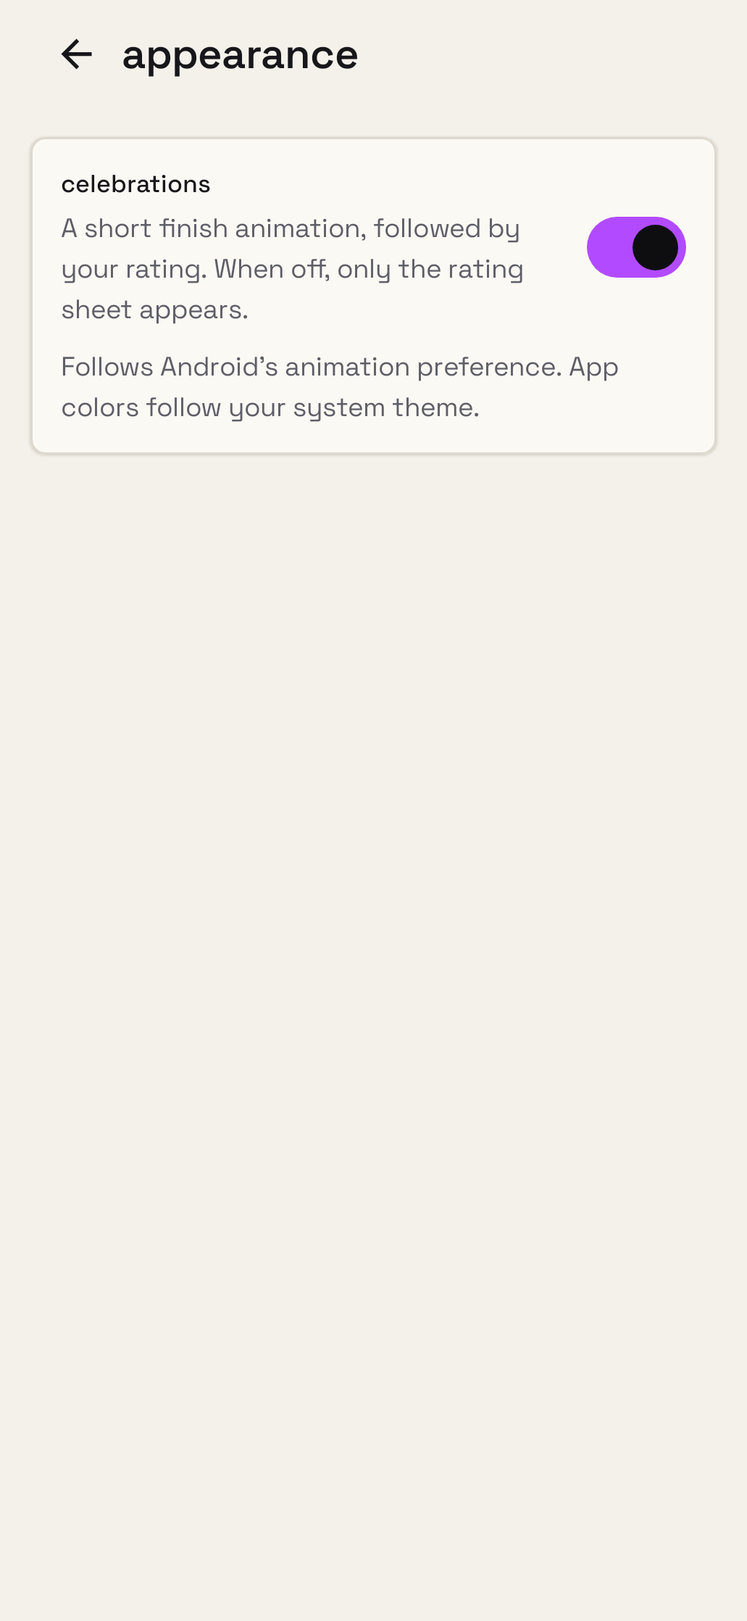
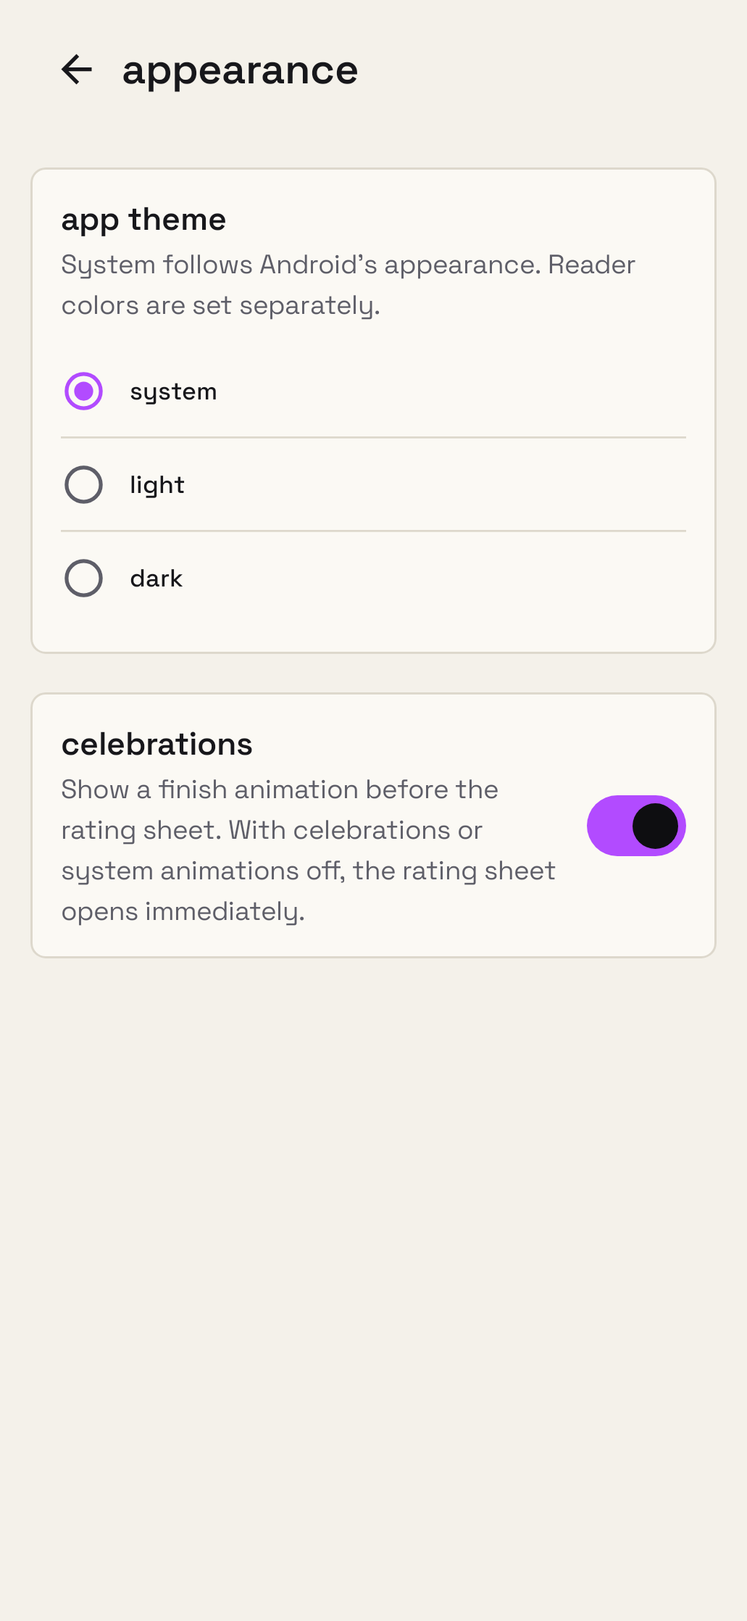
docs: hand over verified M3 0.3.1 release

diff --git a/plans/design/preview.html b/plans/design/preview.html
@@ -214,7 +214,7 @@ svg.i{fill:none;stroke:currentColor;stroke-width:1.75;stroke-linecap:square;stro
 .bright{display:flex;align-items:center;gap:10px}
 .bright .slider{flex:1}
 
-/* celebration v2: full screen, auto terminates */
+/* celebration v2: full screen, holds until tap or close */
 .cel{position:absolute;inset:0;z-index:5;pointer-events:none;overflow:hidden}
 .cel.run{pointer-events:auto}
 .cel canvas{position:absolute;inset:0;width:100%;height:100%}
@@ -247,6 +247,7 @@ svg.i{fill:none;stroke:currentColor;stroke-width:1.75;stroke-linecap:square;stro
   <span class="eyebrow">deft · visual design · living preview · v2 · 2026-11-14</span>
   <h1>read like you mean it.</h1>
   <p class="lede">The reference for Deft's look. Written spec: <span class="mono">plans/2026-11-13-deft-visual-design.md</span>; where they disagree, the spec wins.</p>
+  <p class="lede">Latest device-driven layouts: <a href="m3-feedback.html">M3 0.3.1 tracking, book history, appearance and reader status</a>. The Compose renders there supersede the early sketches below, including the held finish celebration.</p>
   <div class="changes"><span>v3: final mark (off-white book, purple ribbon, thinner strokes). v2 changes: mark (b) reworked · lighter purple accent · app type is sans only · reader gets lato, open sans, pt serif, bitter and the book's own font · calmer books screen + filter sheet + list/selection · reader settings behind one button · new full-screen finish that ends by itself · smaller type</span></div>
 </header>
 
@@ -482,7 +483,7 @@ svg.i{fill:none;stroke:currentColor;stroke-width:1.75;stroke-linecap:square;stro
       </div>
     </div></div>
 
-    <div class="ph"><span class="eyebrow">finish · full screen, ends by itself (~2.8 s)</span>
+    <div class="ph"><span class="eyebrow">finish · full screen, tap or close to continue</span>
     <div class="phone app ink" id="celphone">
       <div class="sb"><span>9:41</span><span>82%</span></div>
       <div class="scr">
@@ -492,6 +493,7 @@ svg.i{fill:none;stroke:currentColor;stroke-width:1.75;stroke-linecap:square;stro
         <div class="pad muted" style="font-size:12.5px">Press “finish” below. Tap during the animation to skip.</div>
         <div class="cel" id="cel">
           <canvas id="burst"></canvas>
+          <button id="cclose" aria-label="close celebration" style="position:absolute;right:12px;top:12px;z-index:6;width:48px;height:48px;border:0;background:none;color:#0E0E11;font-size:30px;opacity:0">×</button>
           <div class="stage">
             <div class="ccov"><div class="art" style="background:#4A2F1F"><span class="t">Middlemarch</span><span class="a">GEORGE ELIOT</span></div></div>
             <div class="word">finished.</div>
@@ -651,7 +653,7 @@ svg.i{fill:none;stroke:currentColor;stroke-width:1.75;stroke-linecap:square;stro
   $('rsetbtn').onclick=e=>{e.stopPropagation();reader.classList.add('set');reader.classList.add('hide');};
   page.onclick=()=>{ if(reader.classList.contains('set')){reader.classList.remove('set');return;} reader.classList.toggle('hide'); };
 
-  // ---- celebration v2: full-screen fields + streaks, auto ends
+  // ---- celebration v2: full-screen fields + streaks, holds until dismissed
   const cel=$('cel'), cv=$('burst'), ctx=cv.getContext('2d'), fsheet=$('fsheet');
   const cov=cel.querySelector('.ccov'), word=cel.querySelector('.word'), nums=cel.querySelector('.nums'), pb=cel.querySelector('.pbs .pb');
   const E=t=>1-Math.pow(1-t,3), EI=t=>t*t*t, C=x=>Math.max(0,Math.min(1,x)), S=(t,a,b)=>C((t-a)/(b-a));
@@ -666,8 +668,9 @@ svg.i{fill:none;stroke:currentColor;stroke-width:1.75;stroke-linecap:square;stro
     // 1. purple flood: diagonal sweep from left (0-380ms)
     const p1=E(S(t,0,380)); // 2. green sweep over purple (300-850ms)
     const p2=E(S(t,300,850));
-    // exit (2300-2800): green slides out to the right revealing the page
-    const px=E(S(t,2300,2800));
+    // The final composition stays in place until the reader dismisses it.
+    const px=0;
+    $('cclose').style.opacity=E(S(t,2300,2800));
     const off=px*(W+sk);
     if(p1>0){ctx.fillStyle='#C373FF';ctx.beginPath();const x=p1*(W+sk);ctx.moveTo(off,0);ctx.lineTo(x+off,0);ctx.lineTo(x-sk+off,H);ctx.lineTo(off-sk,H);ctx.closePath();ctx.fill();}
     if(p2>0){ctx.fillStyle='#3DE08A';ctx.beginPath();const x=p2*(W+sk);ctx.moveTo(off,0);ctx.lineTo(x+off,0);ctx.lineTo(x-sk+off,H);ctx.lineTo(off-sk,H);ctx.closePath();ctx.fill();}
@@ -686,11 +689,11 @@ svg.i{fill:none;stroke:currentColor;stroke-width:1.75;stroke-linecap:square;stro
     $('ntime').textContent=`${Math.floor(mins/60)}h ${String(mins%60).padStart(2,'0')}m`; $('nsess').textContent=Math.round(k*58); $('ndays').textContent=Math.round(k*41);
     pb.style.transform=`translateX(${(E(S(t,1400,1800))-1)*102 + px*102}%)`;
   }
-  function frame(now){const t=now-t0; draw(t); if(t<END) raf=requestAnimationFrame(frame); else finish();}
-  function finish(){running=false;cel.classList.remove('run');draw(END);fsheet.classList.add('on');}
-  function play(){cancelAnimationFrame(raf);fsheet.classList.remove('on');if(reduce){fsheet.classList.add('on');return;}running=true;cel.classList.add('run');t0=performance.now();raf=requestAnimationFrame(frame);}
+  function frame(now){const t=now-t0; draw(t); if(t<END) raf=requestAnimationFrame(frame);}
+  function finish(){cancelAnimationFrame(raf);running=false;cel.classList.remove('run');ctx.clearRect(0,0,cv.width,cv.height);[cov,word,nums,pb,$('cclose')].forEach(x=>x.style.opacity=0);fsheet.classList.add('on');}
+  function play(){cancelAnimationFrame(raf);fsheet.classList.remove('on');if(reduce){fsheet.classList.add('on');return;}running=true;pb.style.opacity=1;cel.classList.add('run');t0=performance.now();raf=requestAnimationFrame(frame);}
   $('play').onclick=play;
-  cel.onclick=()=>{ if(running){ const t=performance.now()-t0; if(t<2300){ t0=performance.now()-2300; } } };
+  cel.onclick=()=>{if(running)finish();};
   $('fdone').onclick=()=>fsheet.classList.remove('on');
 })();
 </script>

diff --git a/plans/design/m3-feedback.html b/plans/design/m3-feedback.html
@@ -1,22 +1,28 @@
 <!doctype html>
 <html lang="en"><meta charset="utf-8"><meta name="viewport" content="width=device-width, initial-scale=1">
-<title>Deft 0.3.0 — tracking review</title>
+<title>Deft 0.3.1 — tracking review</title>
 <style>body{margin:0;background:#f7f5ef;color:#22221f;font:16px/1.5 system-ui}main{max-width:1200px;margin:auto;padding:32px 24px}h1{font-size:32px;letter-spacing:-.03em}section{margin-top:40px}.screens{display:flex;gap:24px;align-items:start;flex-wrap:wrap}figure{margin:0;max-width:360px}img{display:block;width:100%;height:auto;border:1px solid #d9d7cf;border-radius:8px}figcaption{margin:12px 0 24px;color:#55554d}a{color:inherit}</style>
-<main><h1>Deft 0.3.0</h1>
+<main><h1>Deft 0.3.1</h1>
 <p>Reading history, assessments, tracking preferences and the finished-book flow. These are local Compose renders, not phone screenshots. Timing, gestures and haptics are covered by the <a href="../m3-test-checklist.md">M3 device checklist</a>.</p>
 <p><a href="m2-feedback.html">Accepted M2 visual reference</a></p>
 <section><h2>Book history and assessment</h2><div class="screens">
 <figure><img src="m3-book-tracking-paper.png" alt="Book tracking cards in the light theme"><figcaption>Grouped state, rating, favorite, private review and read-through history.</figcaption></figure>
-<figure><img src="m3-book-tracking-ink-large.png" alt="Book tracking cards at 150 percent text in the dark theme"><figcaption>Large text with scrollable rating targets and wrapped content.</figcaption></figure>
+<figure><img src="m3-book-tracking-ink-large.png" alt="Book tracking cards at 150 percent text in the dark theme"><figcaption>Aligned half stars, direct favorite heart and integrated review at large text.</figcaption></figure>
 <figure><img src="m3-book-history-paper.png" alt="Populated reading history with a completed and current read-through"><figcaption>Separate attempts with dates, recorded sessions and focused history actions.</figcaption></figure>
-<figure><img src="m3-book-history-ink-large.png" alt="Reading history at 150 percent text in the dark theme"><figcaption>History actions wrap at large text. Browsing sessions remain accessible but are excluded from totals.</figcaption></figure>
+<figure><img src="m3-book-history-ink-large.png" alt="Reading history at 150 percent text in the dark theme"><figcaption>History management uses a dated menu. Browsing sessions remain accessible but are excluded from totals.</figcaption></figure>
 </div></section>
 <section><h2>Tracking preferences</h2><div class="screens">
 <figure><img src="m3-settings-home.png" alt="Settings categories including Tracking and Appearance"><figcaption>Tracking and Appearance join the existing settings categories.</figcaption></figure>
 <figure><img src="m3-tracking-settings-ink-large.png" alt="Tracking preferences at 150 percent text"><figcaption>Separate idle controls for reflowable and fixed-layout books, plus the optional tracking indicator. Fixed-layout readers arrive in M7.</figcaption></figure>
-<figure><img src="m3-appearance-settings-paper.png" alt="Appearance settings with celebrations enabled"><figcaption>The finish animation has a persistent switch and follows Android's animation preference.</figcaption></figure>
+<figure><img src="m3-appearance-settings-paper.png" alt="Appearance settings with celebrations enabled"><figcaption>App theme is independent of the reader; celebrations retain their own switch.</figcaption></figure>
+<figure><img src="m3-appearance-settings-ink.png" alt="Dark app appearance with contrasting off switch"><figcaption>Light, Dark or System, with a visible off-state thumb.</figcaption></figure>
+<figure><img src="m3-settings-about-ink-large.png" alt="About Deft at 150 percent text"><figcaption>Version, source, license and offline privacy.</figcaption></figure>
 </div></section>
 <section><h2>Finished-book flow</h2><div class="screens">
-<figure><img src="m3-finish-full.png" alt="Finished-book celebration with reading counters"><figcaption>One frame of the short finish animation. Tap to skip, or wait for the rating sheet.</figcaption></figure>
+<figure><img src="m3-finish-full.png" alt="Finished-book celebration with reading counters"><figcaption>One frame of the short finish animation. The final composition holds until tap or close.</figcaption></figure>
 <figure><img src="m3-finish-quiet-ink-large.png" alt="Quiet finished-book rating sheet at large text"><figcaption>Quiet mode uses the rating sheet directly; it also follows Android's disabled-animation setting.</figcaption></figure>
+</div></section>
+<section><h2>Reader status and notices</h2><div class="screens">
+<figure><img src="m3-reader-status-large.png" alt="Reader status at 150 percent text"><figcaption>Page left, tracking centered, clock/battery and charging indicator right. Side labels wrap within their columns at large text.</figcaption></figure>
+<figure><img src="m3-notices-ink.png" alt="Vertically centered notices"><figcaption>Message, icon and dismiss are vertically centered; scan details stays with its message.</figcaption></figure>
 </div></section></main></html>

diff --git a/plans/m3-test-checklist.md b/plans/m3-test-checklist.md
@@ -1,51 +1,110 @@
 # M3 — reading tracking device checklist
 
+**Current retest: 0.3.1.** Install `deft-0.3.1.apk` as an update and use the fresh checklist at the end of this file. The original 0.3.0 review and all comments are preserved below.
+
+## Original 0.3.0 review
+
 Install `deft-0.3.0.apk` as an update; do not uninstall. The persistent release key preserves M1/M2 data. Complete these on your phone before M3 merge. Local checks, audit findings and signed artifact identity are recorded in [the validation report](2026-11-20-m3-validation.md).
 
 ## Upgrade and previous reader behavior
-- [ ] Update from 0.2.5: folders, books, covers, missing/ignored state, filters, fonts/themes, bookmarks and positions remain. Previously opened M2 books have no fabricated reading history.
-- [ ] Open EPUBs in paged and continuous modes. Try page turns, slow swipes, chapter changes, search, TOC jumps, selection, bookmarks, image zoom, external-link confirmation and Back. M2 behavior remains intact.
-- [ ] Open a missing or Protected book: clear existing message; no reading time is created. Rating/favorite/review and manual state remain usable.
+- [X] Update from 0.2.5: folders, books, covers, missing/ignored state, filters, fonts/themes, bookmarks and positions remain. Previously opened M2 books have no fabricated reading history.
+- [X] Open EPUBs in paged and continuous modes. Try page turns, slow swipes, chapter changes, search, TOC jumps, selection, bookmarks, image zoom, external-link confirmation and Back. M2 behavior remains intact.
+- [X] Open a missing or Protected book: clear existing message; no reading time is created. Rating/favorite/review and manual state remain usable.
 
 ## Session accuracy
-- [ ] Open a not-read book, read/interact for less than 60 seconds, leave: no saved session or automatic Reading state.
-- [ ] Read for at least 60 seconds, leave: a session and first read-through appear, state Reading. Reopen and read again: another session under the same read-through.
-- [ ] Set reflowable idle timeout 1 minute. Read with regular page/scroll interactions for 3 minutes, stop interacting for at least 2 minutes, then leave: idle gap is excluded. Repeat with default 5-minute timeout and 6-minute idle gap; total is about 3 minutes, not 9 minutes.
-- [ ] After idle pause, turn a page and keep reading; only resumed reading is added. Repeated idle/resume does not duplicate earlier time.
-- [ ] Background the app, lock the screen, switch books and rotate during reading. Background/locked time is excluded, and rotation does not double-count. Rotation and reader overlays split visible sessions; each segment still needs 60 seconds to be retained.
-- [ ] With idle timeout Off and keep-screen-on enabled, leave untouched for 15 minutes: keep-awake is released. After the screen sleeps, time stops. Reading interaction restores keep-awake appropriately.
-- [ ] After a qualifying session has checkpointed, force-stop Deft and reopen: saved history survives without counting the app-closed interval. No duplicate session appears. With a finite idle timeout, crash recovery keeps confirmed reading only: the current page’s unconfirmed dwell and up to 30 seconds of confirmed time may be lost.
-- [ ] Change device clock while reading: duration is sensible, not inflated by the wall-clock jump.
-- [ ] Page turns/scroll steps count reading movement. TOC/search/progress jumps, typography reflow and opening settings do not create huge page counts or reset reading idle incorrectly.
-- [ ] Enable the quiet reader indicator, then disable it. Its state follows real tracking without obstructing text or gestures.
+- [X] Open a not-read book, read/interact for less than 60 seconds, leave: no saved session or automatic Reading state.
+- [\] Read for at least 60 seconds, leave: a session and first read-through appear, state Reading. Reopen and read again: another session under the same read-through.
+-- cant save any reading session: gives the error "Reading history couldnt be saved. Check available storage; Deft will retry" (i have over 30gbs free, it isnt a storage issue) also the text and the info icon arent centered in the notification box
+-- drop the minimum limit to 30 seconds to change state (make it editable in the settings)
+- [-] Set reflowable idle timeout 1 minute. Read with regular page/scroll interactions for 3 minutes, stop interacting for at least 2 minutes, then leave: idle gap is excluded. Repeat with default 5-minute timeout and 6-minute idle gap; total is about 3 minutes, not 9 minutes.
+- [-] After idle pause, turn a page and keep reading; only resumed reading is added. Repeated idle/resume does not duplicate earlier time.
+- [-] Background the app, lock the screen, switch books and rotate during reading. Background/locked time is excluded, and rotation does not double-count. Rotation and reader overlays split visible sessions; each segment still needs 60 seconds to be retained.
+- [-] With idle timeout Off and keep-screen-on enabled, leave untouched for 15 minutes: keep-awake is released. After the screen sleeps, time stops. Reading interaction restores keep-awake appropriately.
+- [-] After a qualifying session has checkpointed, force-stop Deft and reopen: saved history survives without counting the app-closed interval. No duplicate session appears. With a finite idle timeout, crash recovery keeps confirmed reading only: the current page’s unconfirmed dwell and up to 30 seconds of confirmed time may be lost.
+- [-] Change device clock while reading: duration is sensible, not inflated by the wall-clock jump.
+- [-] Page turns/scroll steps count reading movement. TOC/search/progress jumps, typography reflow and opening settings do not create huge page counts or reset reading idle incorrectly.
+-- cant test these, any reading session isnt saving
+- [X] Enable the quiet reader indicator, then disable it. Its state follows real tracking without obstructing text or gestures.
+-- move the indicator from above the status line to on the status line on the center (left aligned: page, center: reading status, right: time and battery (for the battery icon, if the phone is charging, add a small lightning text next to it))
 
 ## Reading states and read-throughs
-- [ ] Not read becomes Reading only after a qualifying saved session.
-- [ ] Mark Reading as Paused; short reopen alone preserves Paused, a qualifying session resumes the same read-through.
-- [ ] Mark Abandoned; reopening offers Resume or Start over. Resume retains the read-through; Start over creates another. Cancel/Back starts neither choice silently.
-- [ ] Finish a book manually; pick a finish date. Reopen: Re-read starts a new read-through and resets position; Just browsing retains finished state and position.
-- [ ] Read a browsing session for at least 60 seconds. It appears labelled Browsing in book history, but is excluded from reading totals/finish summary.
-- [ ] Reach the last page/99% while Reading: Mark as finished appears once. Decline, navigate away/back and reopen: it does not repeat for that read-through. A new read-through can prompt again.
-- [ ] Accept Mark as finished: completion date and state update once; the finish flow appears without duplicate sessions.
-- [ ] Manually select all five states. Finished asks for date; resetting to Not read warns before removing read-through history. Cancel keeps it.
-- [ ] Edit read-through start/end dates; invalid reversed dates are rejected. Delete one read-through with confirmation; latest remaining read-through determines state and its sessions remain intact. Cancelling deletion changes nothing.
-- [ ] Ignore and un-ignore a book; history returns intact. Remove/move source files and rescan; missing books retain history. Only confirmed Forget removes it permanently.
+- [-] Not read becomes Reading only after a qualifying saved session.
+- [-] Mark Reading as Paused; short reopen alone preserves Paused, a qualifying session resumes the same read-through.
+- [X] Mark Abandoned; reopening offers Resume or Start over. Resume retains the read-through; Start over creates another. Cancel/Back starts neither choice silently.
+- [X] Finish a book manually; pick a finish date. Reopen: Re-read starts a new read-through and resets position; Just browsing retains finished state and position.
+- [-] Read a browsing session for at least 60 seconds. It appears labelled Browsing in book history, but is excluded from reading totals/finish summary.
+- [X] Reach the last page/99% while Reading: Mark as finished appears once. Decline, navigate away/back and reopen: it does not repeat for that read-through. A new read-through can prompt again.
+- [\] Accept Mark as finished: completion date and state update once; the finish flow appears without duplicate sessions.
+- [X] Manually select all five states. Finished asks for date; resetting to Not read warns before removing read-through history. Cancel keeps it.
+- [X] Edit read-through start/end dates; invalid reversed dates are rejected. Delete one read-through with confirmation; latest remaining read-through determines state and its sessions remain intact. Cancelling deletion changes nothing.
+-- Add an Android date picker to make things easier
+- [X] Ignore and un-ignore a book; history returns intact. Remove/move source files and rescan; missing books retain history. Only confirmed Forget removes it permanently.
 
 ## Ratings, library and settings
-- [ ] Set ratings 0.5, 3.5 and 5, clear the rating, toggle favorite and save a multiline review. Reopen/restart; values persist, no file is modified.
-- [ ] Use state, favorite and rating filters with existing format/missing/search filters. Change rating sort/direction, restart app: choices remain. Book states update immediately after reading/manual changes.
-- [ ] Tracking settings accept both reflowable/fixed 1–60 minute timeouts and Off; defaults are 5/10 minutes. Restart and verify persistence; no invalid value is accepted.
-- [ ] Appearance celebrations toggle persists. Tracking controls explain the minimum-session behavior without unnecessary technical details.
+- [X] Set ratings 0.5, 3.5 and 5, clear the rating, toggle favorite and save a multiline review. Reopen/restart; values persist, no file is modified.
+-- dont use an actual toggle button for favoriting, use the heart icon itself, for a favorite, a filled out heart with a little popping animation when favoriting and unfavoriting
+-- the alignment of half star ratings is Off
+-- the general design of the new additions (the rating, the change state button, the favorite button, the padding and spacing in the your review section, the reading history section) needs a lot of work, refer to the screenshots; the design is haphazardous, and unorganized, wrong usage of empty space, unintuitive and outside of the norm, spacing and alignment issues are proliferent.
+- [X] Use state, favorite and rating filters with existing format/missing/search filters. Change rating sort/direction, restart app: choices remain. Book states update immediately after reading/manual changes.
+- [X] Tracking settings accept both reflowable/fixed 1–60 minute timeouts and Off; defaults are 5/10 minutes. Restart and verify persistence; no invalid value is accepted.
+- [X] Appearance celebrations toggle persists. Tracking controls explain the minimum-session behavior without unnecessary technical details.
+-- make it last until the user taps the screen or the eased in appearance of the close button
 
 ## How does it look? Finish flow and visual review
-- [ ] Finish with animations enabled: purple/green fields, cover, finished label and time/session/day counters play smoothly; it exits automatically around 2.8 seconds to rating/favorite sheet.
-- [ ] Tap during celebration: skip cleanly to rating/favorite. Dismiss sheet and revisit book: celebration does not replay.
-- [ ] Disable celebrations; finish another read-through: quiet finished/rating sheet only. Repeat with Android animation scale off.
-- [ ] Rotate/background during finish flow: no duplicate finish or lost state; controls remain usable.
-- [ ] Review book history/rating/review cards, Tracking/Appearance settings and library states in light/dark themes, portrait/landscape and 150% text. No clipped labels, awkward blank space or inaccessible actions.
-- [ ] Enable volume-key page turns: one subtle tick per enabled press, none on release/repeat or when disabled. State confirmation and celebration burst use subtle feedback, respecting Android haptic settings.
-- [ ] TalkBack announces state/rating/favorite/history controls; touch targets are usable. Motion, sheets, errors and state changes match the polished M2 UI.
+- [X] Finish with animations enabled: purple/green fields, cover, finished label and time/session/day counters play smoothly; it exits automatically around 2.8 seconds to rating/favorite sheet.
+- [X] Tap during celebration: skip cleanly to rating/favorite. Dismiss sheet and revisit book: celebration does not replay.
+- [X] Disable celebrations; finish another read-through: quiet finished/rating sheet only. Repeat with Android animation scale off.
+- [X] Rotate/background during finish flow: no duplicate finish or lost state; controls remain usable.
+- [X] Review book history/rating/review cards, Tracking/Appearance settings and library states in light/dark themes, portrait/landscape and 150% text. No clipped labels, awkward blank space or inaccessible actions.
+- [X] Enable volume-key page turns: one subtle tick per enabled press, none on release/repeat or when disabled. State confirmation and celebration burst use subtle feedback, respecting Android haptic settings.
+- [-] TalkBack announces state/rating/favorite/history controls; touch targets are usable. Motion, sheets, errors and state changes match the polished M2 UI.
 
 ## Feedback
 
 Write observations beneath the relevant checkbox; add screenshots/recordings to the feedback folder. M4 organization, M5 highlights/notes and M6 global stats/goals remain separate milestones.
+
+- the turned off form of any toggle button has too little contrast with the circle inside
+- add an about page in the settings
+- in the settings, add a bit more vertical padding to the titles (settings, library settings, reader, ...)
+- currently, the app theme itself cant be changed, only the reader theme, implement an app theme changer in the appearance settings
+
+
+## 0.3.1 — device retest
+
+Install `deft-0.3.1.apk` over the existing app; do not uninstall. The same release key is used. Local validation and the timestamp failure explanation are in [the 0.3.1 report](2026-11-20-m3-031-validation.md). These boxes are for device results, not local automated checks.
+
+### Session saving and accuracy
+- [ ] Upgrade: books, folders, reader settings, positions, bookmarks, manual states, dates, ratings/favorite/reviews and existing history remain.
+- [ ] Tracking → minimum session defaults to **30 seconds**. Read a not-read book for 35–45 seconds, turn a page and leave: a session is saved and state becomes Reading. No save-error notice appears.
+- [ ] Read the same book for 2 minutes with several page turns, leave, reopen and read again: two sessions under one read-through; the first session does not duplicate. Test both paged and continuous reading.
+- [ ] Leave after less than 30 seconds: no new session. Set minimum to 10 seconds, read 15 seconds and leave: session is saved and its duration is shown in seconds. Change minimum to 120; previous shorter accepted sessions remain in history/totals after restart.
+- [ ] Edit minimum to 1 and 300 seconds; both save. Blank, 0, negative, decimal and 301 are rejected. Restart retains the last valid value. Restore 30 seconds for the remaining tests.
+- [ ] With 1-minute idle pause, read with regular interactions for 3 minutes, then leave untouched for 2 minutes and exit: only active reading counts. Repeat with default 5 minutes and a 6-minute idle gap: about 3 minutes, not 9.
+- [ ] After idle pause, turn a page and read again; resumed reading is added once. Page turns/scroll count movement, while TOC/search/progress jumps and typography changes do not inflate page counts.
+- [ ] Background, lock, rotate and switch books: hidden/locked time is excluded. Each visible segment needs the selected minimum. Return and continue without duplicate time.
+- [ ] With idle pause Off, leave untouched for 15 minutes: keep-awake releases, screen-off stops time, and the next reading interaction restores keep-awake.
+- [ ] Read/interact long enough to checkpoint, force-stop and reopen: confirmed history survives without counting closed time or duplicating a session. Current-page unconfirmed dwell and up to 30 seconds of confirmed time may be lost after force-stop.
+- [ ] Change the device clock while reading: duration remains sensible. Mark Reading as Paused: a short reopen preserves Paused; a qualifying session resumes the same read-through.
+- [ ] Open a finished book as Just browsing and read for 35–45 seconds: labelled Browsing session appears, excluded from reading totals. Re-read instead creates a new read-through and resets position.
+- [ ] Reach the end and accept the finish prompt: session saves, state finishes, celebration appears once. Declining still suppresses repeats for that read-through.
+
+### Book controls and dates
+- [ ] State control opens all five states. Rating, heart and review have clear grouping, aligned spacing and no wasted rows at normal and 150% text in both app themes.
+- [ ] Set 0.5, 3.5 and 5 stars: filled areas align with outlines, the value is readable, and clear rating works. Tap the heart on/off: filled/outline state, a subtle pop each way, and persisted value after restart.
+- [ ] Write/edit/clear a multiline review; text stays readable and controls remain usable. Reading history clearly separates read-throughs with dates and real totals. Open session details and the history management menu.
+- [ ] Manual Finished opens a calendar. Cancel, reopen and choose a date; no state changes on cancel. Edit start/end dates through calendars, including year/month navigation; invalid reversed dates are rejected. Cancel/delete confirmations preserve existing history unless explicitly confirmed.
+- [ ] Ignore/un-ignore and missing files preserve history. Rating and manual state remain usable on missing/Protected books. Filters and rating/state sorts still update and persist.
+
+### Reader, appearance and completion
+- [ ] Enable reading indicator: page on left, reading/paused centered, clock/battery on right. Plug/unplug charging: the bolt follows charging. Test 150% text with no overlap. Disable status details: the separately enabled reading indicator remains centered. Disable indicator: it disappears.
+- [ ] Any notice has centered message/icon/close, including a multiline error and a scan notice with action. Notices still slide, stack and dismiss correctly.
+- [ ] Every settings switch has a clearly visible off thumb/track in Light, Dark and reader themes. Settings, Library, Reader, Tracking, Appearance and About titles have consistent vertical breathing room.
+- [ ] Appearance → System/Light/Dark changes library, book and settings immediately, including readable system-bar icons. Restart retains it. System follows Android; reader theme remains independently selected.
+- [ ] About shows installed version 0.3.1, author, GPL license, source and offline privacy information. Source opens the browser only after tapping its action. Back returns to Settings.
+- [ ] Finish with celebrations enabled: intro plays and then stays on screen beyond 5 seconds. Close eases in. Tap anywhere or close to open rating/favorite; do not auto-exit. Tap early also skips cleanly.
+- [ ] Rotate/background the held celebration, then dismiss: no replay or duplicate completion. With celebrations or Android animation scale off, finish goes directly to the quiet sheet. Heart motion respects disabled animations.
+- [ ] TalkBack announces state, half-star rating, favorite selected state, history actions, date and theme choices. At large text/landscape all actions remain reachable, without clipping.
+
+### Feedback for 0.3.1
+
+Add observations under the relevant checkbox and new screenshots/recordings to `plans/feedback/`. M3 remains on its feature branch until this review is accepted.

diff --git a/plans/2026-11-20-m3-031-validation.md b/plans/2026-11-20-m3-031-validation.md
@@ -1,0 +1,84 @@
+# M3 device feedback — 0.3.1 validation
+
+## Review coverage
+
+The complete original review in `m3-test-checklist.md` and all eight screenshots
+dated 2026-11-20 were read. The original comments and results remain intact; a
+fresh 0.3.1 device checklist follows them. M3 remains on its feature branch until
+the author accepts the device review.
+
+| Feedback | Change |
+|---|---|
+| Sessions never save, despite free storage | Compare checkpoint identity at Room's millisecond precision; preserve retries and log the actual exception locally. |
+| Editable 30-second minimum | Default 30 seconds, valid 1–300; captured per session so later preference changes preserve accepted history. Room 5→6 assigns legacy rows their original 60-second threshold. |
+| Misaligned save-error notice | Vertically center message, icon and close control, including multiline notices. |
+| Tracking indicator and battery | Center tracking in the status line; page left, time/battery right, live charging bolt. Independent indicator visibility remains available. |
+| Date picker | Native Android calendars for finish/start/end dates, with cancellation and calendar-date validation. |
+| Favorite and half stars | Direct filled/outline heart with a small pop both ways; star fill and outline share one path. |
+| Book assessment/review/history layout | Compact state selector and assessment/review grouping; dated read-through rows with session details and secondary management menu. |
+| Celebration exits too soon | Hold after the introduction until tap or eased-in close; preserve quiet mode and restoration. |
+| Off switches lack contrast | Shared switch with contrasting thumb/track and outline in app and reader palettes. |
+| Settings titles need padding | Shared settings top bar adds 8dp above and below. |
+| App theme and About | Persistent System/Light/Dark independent of reader theme, animated palette and matching system-bar icons; About shows installed version, author, GPL/source links and offline privacy. |
+
+## Session failure diagnosis
+
+`Instant.now()` can include sub-millisecond precision. Room's existing converter
+stores epoch milliseconds. The first checkpoint therefore saved successfully, but
+the next checkpoint compared the reloaded timestamp with the original Instant
+using exact equality and rejected the same session as an ID collision. Existing
+tests used whole-second Instants and missed this device behavior.
+
+A real Room regression with a nanosecond timestamp failed before the change at
+`SessionRepository`'s identity guard. Identity now compares epoch milliseconds,
+while retaining the book, browsing and captured-minimum guards. No storage quota
+change or destructive recovery is involved. Time that was never successfully
+recorded by 0.3.0 is not fabricated.
+
+## Combined audit
+
+One combined audit found two related edge cases. Both were corrected and cleared
+by a scoped follow-up:
+
+- Editing a multi-day read-through to one calendar day could reject it because
+  the hidden start/end times were inverted. Validate the selected dates first and
+  clamp the end to the start when needed on the same day.
+- A qualifying session shorter than one minute could show `0m` in the held
+  celebration. Show seconds for positive sub-minute totals.
+
+Regressions exercise the native calendar and the held 35-second celebration.
+
+## Verification and artifact
+
+`check` passed after the fixes and audit: 867 tests across 187 suites, with no
+failures, errors or skips. This includes Room migrations, repeated nanosecond
+session checkpoints, captured minimums, appearance persistence, calendar
+selection/cancellation, favorite accessibility, held celebration and reader
+status layout. ktlint, detekt and network isolation passed in the same run.
+
+Updated light/dark and 150% text renders were inspected for book controls,
+history, settings, About, celebration, reader status and notices. The refreshed
+reference is `plans/design/m3-feedback.html`, linked from the main visual preview.
+The preview JavaScript passed `node --check`; release-tool Python tests passed.
+
+No physical-device test is claimed: the author instructed us to assume USB access
+is unavailable. The unchecked 0.3.1 section in `m3-test-checklist.md` covers device
+retests, including the tracking checks previously blocked by session persistence.
+
+`check assembleRelease` passed on the committed source in 3m 47s. The release
+uses R8 minification and resource shrinking. `scripts/verify-release.py` verified
+application ID/version, the persistent signing certificate, absence of INTERNET
+permission, and the R8 mapping. The certificate also matches the archived 0.3.0
+APK, so this release can update that installation without removing app data.
+
+- APK: `D:/Code/deft/deft-0.3.1.apk`
+- Version: `0.3.1-1`, Android versionCode `30101`
+- Embedded source: `42eebc4864e6a429b69971d9f64e75e8e4900505`
+- Size: `6197253` bytes
[2 lines of base64/hex data omitted]
+- Local archive: `.superpowers/releases/0.3.1/` contains the APK, R8 mapping and
+  evidence JSON for crash retracing.
+
+The feature branch is ready for device review; M3 has not been merged or tagged.
+GitHub CI is not part of the handover wait.

diff --git a/plans/2026-11-13-deft-roadmap.md b/plans/2026-11-13-deft-roadmap.md
@@ -6,7 +6,7 @@
 
 **Rule for every milestone:** it ends with an installable app that is better than the previous milestone's, all tests green, CI green, and the design doc updated if a decision changed (add a row to the design doc's Decision log, §20).
 
-**Merged: M2, `v0.2.5-1`. Current handover: M3, `0.3.0-1`, awaiting device acceptance.**
+**Merged: M2, `v0.2.5-1`. Current handover: M3, `0.3.1-1`, awaiting device acceptance.**
 
 **Author-directed handover:** M1 was merged as `v0.1.2-1`. The author passed every 0.2.4 device-retest item and accepted M2, explicitly authorizing final minor polish as `0.2.5-1` followed by a verified merge/tag/push without another feedback round or waiting for GitHub CI. Offline EPUB/library search, image viewing, launch-last-book and navigation refinements are included. M3 tracking/ratings/favorite, M5 highlights/notes and M7/M8 additional formats retain their milestone boundaries. M2 merged with the accepted final version preserved; M3 is next.
 
@@ -32,7 +32,7 @@
 
 ## M3 — Tracking: sessions, read-throughs, states
 **Spec:** §8 (all), §9, §15 (`ReadThrough`, `ReadingSession`).
-**Delivers:** `SessionTracker` driven by `ReaderEvents` + lifecycle (two idle timeouts incl. Off + the 15-min keep-screen-on safety net, `browsing` sessions, min 60 s, 30 s incremental writes, screen-off/background end), read-through state machine with all §8.3 prompts, manual state changes and date editing on the book page, ratings (half-star), favorite, review, haptics (visual §10), the finish celebration + quiet version and the `celebrations` setting (visual §8.1), `feature/celebrate`. Books screen state chips become real. Settings → Tracking.
+**Delivers:** `SessionTracker` driven by `ReaderEvents` + lifecycle (two idle timeouts incl. Off + the 15-min keep-screen-on safety net, `browsing` sessions, default 30 s minimum adjustable 1–300 s, 30 s incremental writes, screen-off/background end), read-through state machine with all §8.3 prompts, manual state changes and date editing on the book page, ratings (half-star), favorite, review, haptics (visual §10), the finish celebration + quiet version and the `celebrations` setting (visual §8.1), `feature/celebrate`. Books screen state chips become real. Settings → Tracking.
 **Acceptance:** fake-clock tests cover every row of §8.3 and every idle/background edge; reading for 3 min with a 6-min idle gap records exactly 3 min.
 **Produces:** `SessionRepository`, `ReadThroughRepository`, `BookState` derivation query used by stats and library filters.
 

diff --git a/README.md b/README.md
@@ -7,7 +7,7 @@ Deft is an offline Android ebook reader with a reading tracker built in. Open a 
 - **Tracker:** accurate reading time, sessions, streaks, goals, per-book/category/author stats, and a year in review.
 - **Portable:** optional edition matching, export to Goodreads/StoryGraph/Hardcover CSV, and local zip backups.
 
-Status: M1 and M2 are merged. M3 adds automatic sessions, read-through states, ratings, favorites, private reviews and the finish flow in 0.3.0, awaiting device acceptance on its feature branch. The feature list above describes the full roadmap; organization, global stats/goals, highlights/notes and additional readers remain in later milestones. See [`plans/`](plans/) and the [M3 test checklist](plans/m3-test-checklist.md).
+Status: M1 and M2 are merged. M3 adds automatic sessions, read-through states, ratings, favorites, private reviews and the finish flow in 0.3.1, awaiting device acceptance on its feature branch. The feature list above describes the full roadmap; organization, global stats/goals, highlights/notes and additional readers remain in later milestones. See [`plans/`](plans/) and the [M3 test checklist](plans/m3-test-checklist.md).
 
 Distribution: [GitHub Releases](https://github.com/kmab5/deft/releases). F-Droid is planned.
 
